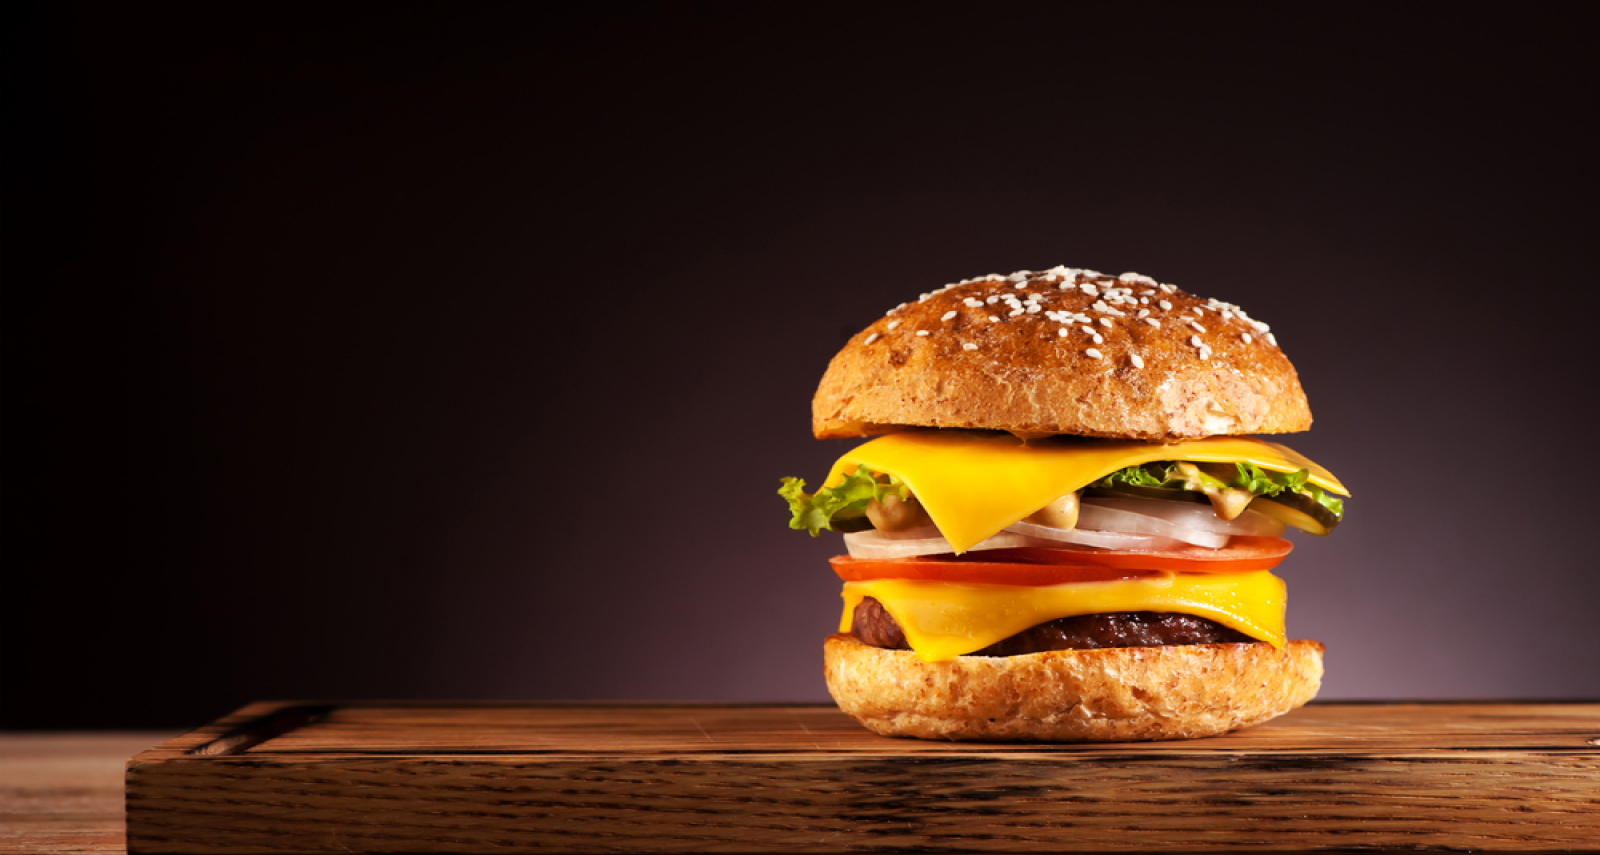
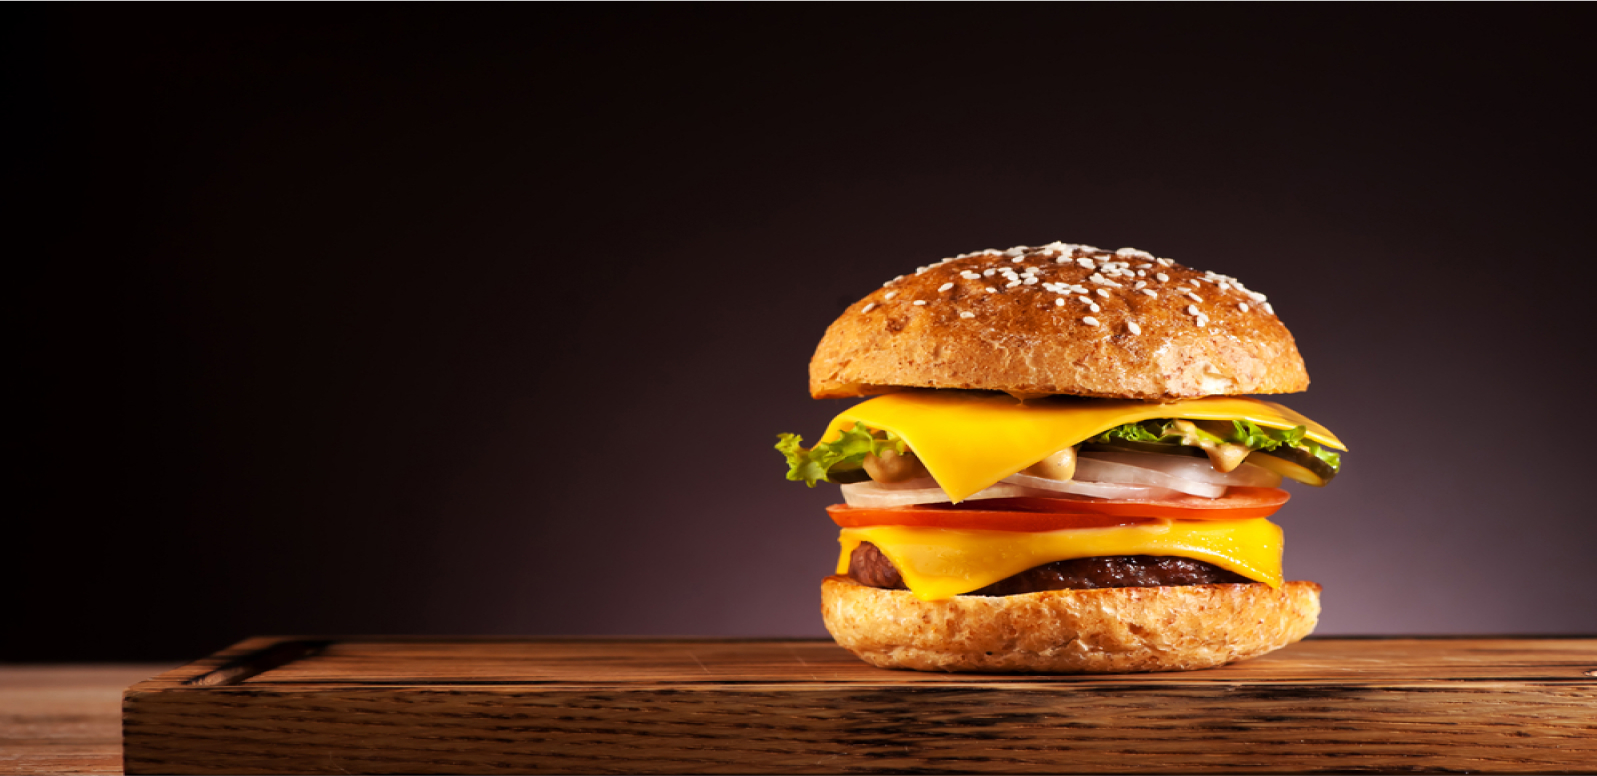
bags main-block

diff --git a/css/style.css b/css/style.css
@@ -272,7 +272,7 @@ color: #FFFFFF;
 
 .main-block {
 	position: relative;
-	min-height: 100vh;
+	min-height: 90vh;
 }
 .main-block__body {
 	padding: 250px 0 100px 0;
@@ -280,11 +280,6 @@ color: #FFFFFF;
 	z-index: 2;
 	max-width: 500px;
 	margin: 0 20px;
-}
-@media (max-width: 992px) {
-	.main-block__body{
-		 padding: 180px 0 100px 0;
-	}
 }
 
 
